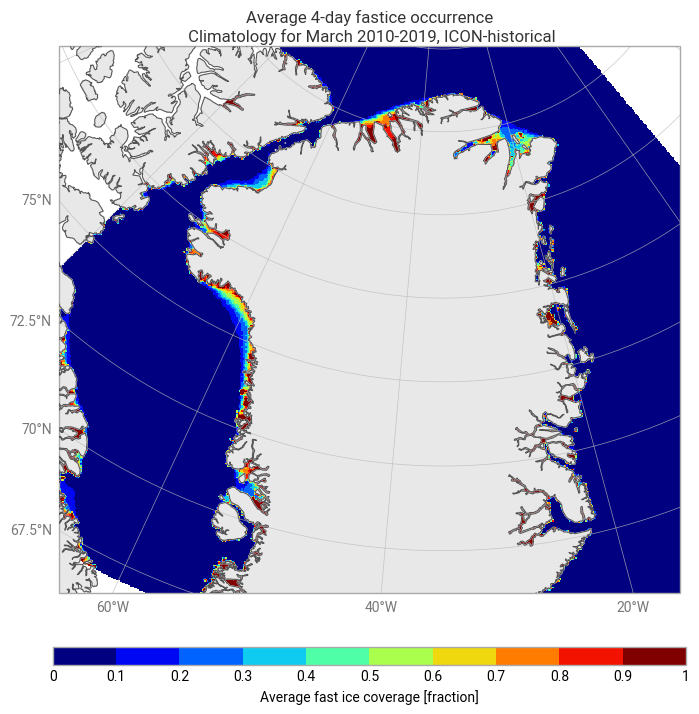
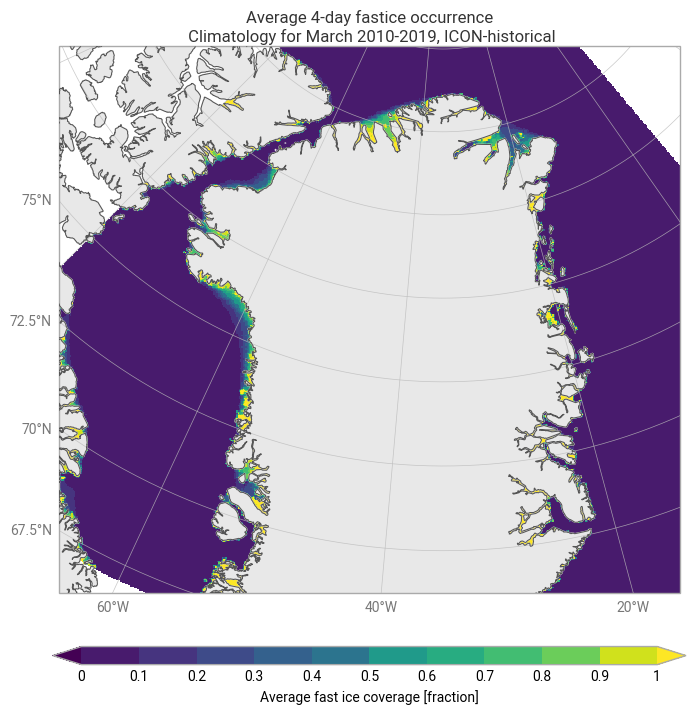
LFI: Improved plotting (e.g. colormap) ; new plots for Readme

diff --git a/usecases/landfastice/landfastice_climatology.py b/usecases/landfastice/landfastice_climatology.py
@@ -48,10 +48,7 @@ module_level_variable1 : int
 
 """
 
-readin=True
-plotoneday=False
 plotavg=True
-
 saveplot=True
 
 
@@ -70,24 +67,24 @@ from utils.fastice import avg_fasticecoverage
 ################
 
 # ClimateDT model (ICON or IFS-NEMO)
-climateDTmodel='IFS-NEMO'
-# climateDTmodel='ICON'
+# climateDTmodel='IFS-NEMO'
+climateDTmodel='ICON'
 
 # Simulation period ( historical or SSP3-7.0 future scenario)
-# simulationperiod='historical'
-simulationperiod='future'
+simulationperiod='historical'
+# simulationperiod='future'
 
 # For which month should the climatology be produced? (1-12)
-month=1
+month=3
 # for month in [1,3,5,11]:
 
 # First and last year of the climatology to be produced
-# # ICON-historical
-# clima_fromyear=2010
-# clima_toyear=2019
-# ICON-future
-clima_fromyear=2030
-clima_toyear=2039
+# ICON-historical
+clima_fromyear=2010
+clima_toyear=2019
+# # ICON-future
+# clima_fromyear=2030
+# clima_toyear=2039
 
 
 # For how many days does ice need to be stationary in order to be considered fastice?
@@ -261,8 +258,7 @@ if plotavg:
     # chart = earthkit.plots.Map(domain=qaanaaq_domain)
     # chart.grid_cells(fasticeOCCtoplot,interpolate=dict(method='nearest'),
     chart.grid_cells(fasticeOCCtoplot,
-                    style=earthkit.plots.styles.Style(colors="jet",
-                                                    # levels=[0,0.1,0.2,0.3,0.4,0.5,0.6,0.7,0.8,0.9,1,1.001]))
+                    style=earthkit.plots.styles.Style(colors="viridis", extend="both",
                                                     levels=[0,0.1,0.2,0.3,0.4,0.5,0.6,0.7,0.8,0.9,1.]))
 
     chart.coastlines(resolution='high',zorder=3)
